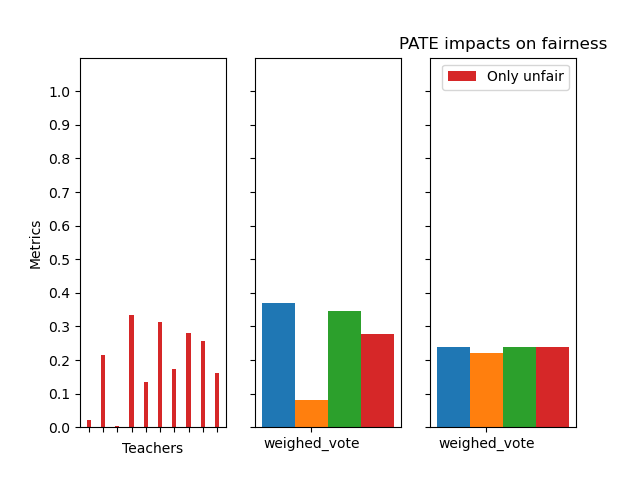
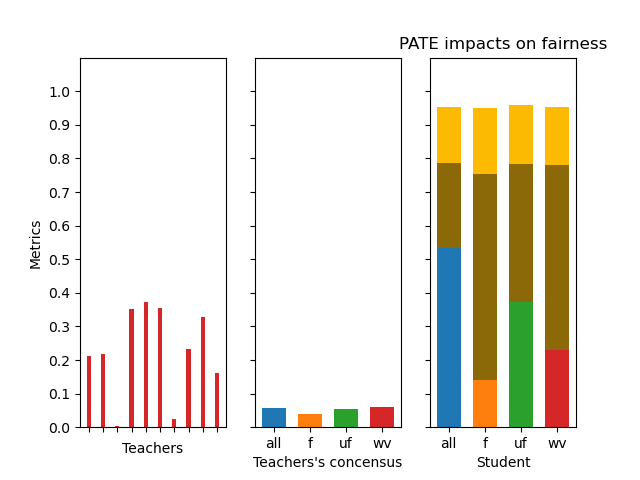
news stats no labels

diff --git a/src/fairness_impact_eval.py b/src/fairness_impact_eval.py
@@ -52,7 +52,7 @@ else:
 
 confs = ["All", "Only fair", "Only unfair"]
 
-fig, (ax1, ax2, ax3)= plt.subplots(1, 3, sharey=True)
+fig, (ax1, ax2, ax3)= plt.subplots(1, 3)
 b_width = 0.3
 x = range(len(accuracies))
 # teachers hist 
@@ -89,15 +89,14 @@ for cf in confs:
     ev1, ev2 = eval_student_model(st_model, x_test, y_test, yhat_test, verbose=False)
     st_stats = fairness(st_model, x_test, yhat_test, s_test)
     stats[cf] = [ev1[1], ev2[1], st_stats["EOD"]]
-    ax2.bar([x], consensus, width = b_width, color=colors[color_index])
+    ax2.bar([x], consensus, width = b_width, color="red")
     color_index += 1
 
 x=1
 color_index = 0
 for cf, stat in stats.items():
-    ax3.bar([x], stat, width = b_width, color=["#fcba03", "#8c6908", colors[color_index]], bottom=[0,0,0], label=["ACC-Labeled data", "ACC - True labels", cf])
+    ax3.bar([x], stat, width = b_width, color=["#fcba03", "#8c6908", "green"], bottom=[0,0,0], label=["", "", "EOD"], hatch=["", "", "/"])
     x += 3*b_width/2
-    color_index+=1
 
 ax3.set_xlabel("Student")
 aggregator = weighed_vote
@@ -107,16 +106,22 @@ st_model = train_student(x_train, y_train, verbose=False)
 st_stats = fairness(st_model, x_test, yhat_test, s_test)
 ev1, ev2 = eval_student_model(st_model, x_test, y_test, yhat_test, verbose=False)
 stat = [ev1[1], ev2[1], st_stats["EOD"]]
-ax3.bar([x], stat, width = b_width, color=["#fcba03", "#8c6908", colors[color_index]],  label=["ACC-Labeled data", "ACC - True labels", "Weighed_vote"])
-ax2.bar([x], consensus, width = b_width, color=colors[color_index])
+ax3.bar([x], stat, width = b_width, color=["#fcba03", "#8c6908", "green"],  label=["ACC-Labeled data", "ACC - True labels", "EOD"], hatch=["", "", "/"])
+ax2.bar([x], consensus, width = b_width, color="red")
 
 ax3.set_xticks([1 + i*3*b_width/2 for i in range(len(xticks))], xticks) 
 ax2.set_xticks([1 + i*3*b_width/2 for i in range(len(xticks))], xticks) 
 
 ax2.set_xlabel("Teachers's concensus")
 plt.title(f"PATE impacts on fairness")
-plt.legend()
-path = "../img/archive_" + str(nb_teachers) + "/"
-plt.savefig(path+name)
+"""  handles, labels = plt.gca().get_legend_handles_labels()
+by_label = dict(zip(labels, handles))
+ax3.legend(by_label.values(), by_label.keys())"""
+#ax3.legend(ncol=2)
+path = "../img/archive_" + str(nb_teachers) + "/" + name
+
+while os.path.isfile(path):
+    path = path[:-4] + "_.png" 
+plt.savefig(path)
 
 
